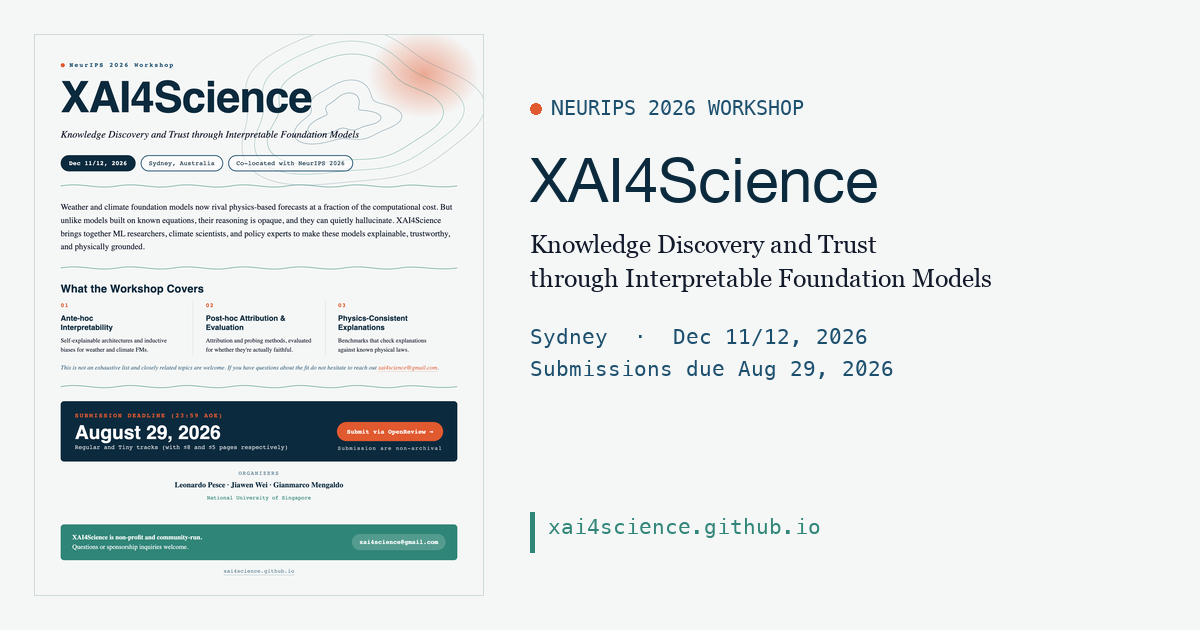
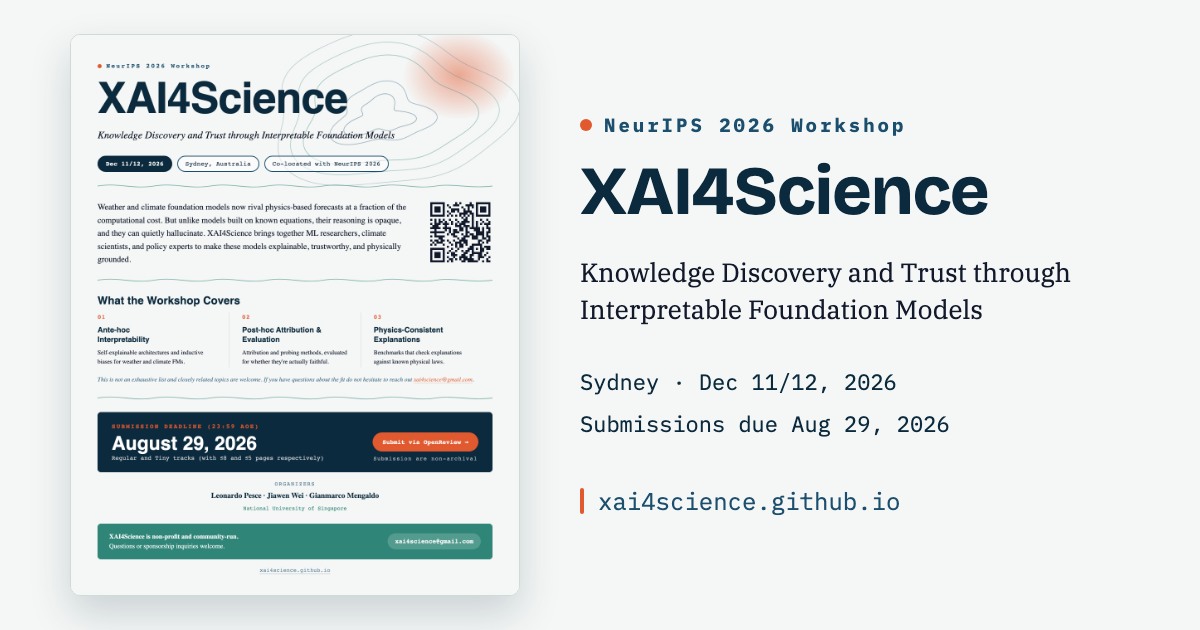
qr code on flyer

diff --git a/flyer.html b/flyer.html
@@ -148,7 +148,7 @@ h1.title{
   font-weight:700;
 }
 
-.divider{ width:100%; height:22px; display:block; margin: 24px 0; opacity:0.6; }
+.divider{ width:100%; height:20px; display:block; margin: 24px 0; opacity:0.6; flex-shrink:0; }
 
 .section-title{
   font-family:'Bricolage', sans-serif;
@@ -159,11 +159,22 @@ h1.title{
   margin-bottom:14px;
 }
 
+.about-block{
+  display:flex;
+  align-items:center;
+  justify-content:space-between;
+  gap:16px;
+}
 .about-block p{
   font-size:20px;
   line-height:1.58;
   color: var(--ink);
-  max-width:940px;
+  max-width:760px;
+}
+.about-block .qr{
+  flex:none;
+  width:155px;
+  height:155px;
 }
 
 .threads{
@@ -537,6 +548,12 @@ h1.title{
 
     <div class="about-block">
       <p>Weather and climate foundation models now rival physics-based forecasts at a fraction of the computational cost. But unlike models built on known equations, their reasoning is opaque, and they can quietly hallucinate. XAI4Science brings together ML researchers, climate scientists, and policy experts to make these models explainable, trustworthy, and physically grounded.</p>
+      <a href="https://xai4science.github.io" target="_blank" rel="noopener" aria-label="xai4science.github.io">
+      <svg class="qr" viewBox="0 0 31 31" xmlns="http://www.w3.org/2000/svg" role="img" aria-label="QR code linking to xai4science.github.io">
+        <rect width="31" height="31" fill="#F5F7F6"/>
+        <path d="M1,1H2V2H1zM2,1H3V2H2zM3,1H4V2H3zM4,1H5V2H4zM5,1H6V2H5zM6,1H7V2H6zM7,1H8V2H7zM13,1H14V2H13zM15,1H16V2H15zM20,1H21V2H20zM23,1H24V2H23zM24,1H25V2H24zM25,1H26V2H25zM26,1H27V2H26zM27,1H28V2H27zM28,1H29V2H28zM29,1H30V2H29zM1,2H2V3H1zM7,2H8V3H7zM9,2H10V3H9zM12,2H13V3H12zM13,2H14V3H13zM14,2H15V3H14zM18,2H19V3H18zM19,2H20V3H19zM20,2H21V3H20zM21,2H22V3H21zM23,2H24V3H23zM29,2H30V3H29zM1,3H2V4H1zM3,3H4V4H3zM4,3H5V4H4zM5,3H6V4H5zM7,3H8V4H7zM10,3H11V4H10zM16,3H17V4H16zM19,3H20V4H19zM21,3H22V4H21zM23,3H24V4H23zM25,3H26V4H25zM26,3H27V4H26zM27,3H28V4H27zM29,3H30V4H29zM1,4H2V5H1zM3,4H4V5H3zM4,4H5V5H4zM5,4H6V5H5zM7,4H8V5H7zM11,4H12V5H11zM12,4H13V5H12zM13,4H14V5H13zM14,4H15V5H14zM17,4H18V5H17zM19,4H20V5H19zM23,4H24V5H23zM25,4H26V5H25zM26,4H27V5H26zM27,4H28V5H27zM29,4H30V5H29zM1,5H2V6H1zM3,5H4V6H3zM4,5H5V6H4zM5,5H6V6H5zM7,5H8V6H7zM9,5H10V6H9zM11,5H12V6H11zM12,5H13V6H12zM14,5H15V6H14zM17,5H18V6H17zM18,5H19V6H18zM19,5H20V6H19zM20,5H21V6H20zM23,5H24V6H23zM25,5H26V6H25zM26,5H27V6H26zM27,5H28V6H27zM29,5H30V6H29zM1,6H2V7H1zM7,6H8V7H7zM10,6H11V7H10zM15,6H16V7H15zM16,6H17V7H16zM17,6H18V7H17zM18,6H19V7H18zM20,6H21V7H20zM21,6H22V7H21zM23,6H24V7H23zM29,6H30V7H29zM1,7H2V8H1zM2,7H3V8H2zM3,7H4V8H3zM4,7H5V8H4zM5,7H6V8H5zM6,7H7V8H6zM7,7H8V8H7zM9,7H10V8H9zM11,7H12V8H11zM13,7H14V8H13zM15,7H16V8H15zM17,7H18V8H17zM19,7H20V8H19zM21,7H22V8H21zM23,7H24V8H23zM24,7H25V8H24zM25,7H26V8H25zM26,7H27V8H26zM27,7H28V8H27zM28,7H29V8H28zM29,7H30V8H29zM16,8H17V9H16zM18,8H19V9H18zM21,8H22V9H21zM1,9H2V10H1zM3,9H4V10H3zM5,9H6V10H5zM7,9H8V10H7zM10,9H11V10H10zM13,9H14V10H13zM17,9H18V10H17zM18,9H19V10H18zM21,9H22V10H21zM25,9H26V10H25zM28,9H29V10H28zM3,10H4V11H3zM5,10H6V11H5zM6,10H7V11H6zM8,10H9V11H8zM11,10H12V11H11zM14,10H15V11H14zM16,10H17V11H16zM17,10H18V11H17zM18,10H19V11H18zM19,10H20V11H19zM21,10H22V11H21zM23,10H24V11H23zM26,10H27V11H26zM29,10H30V11H29zM1,11H2V12H1zM3,11H4V12H3zM4,11H5V12H4zM5,11H6V12H5zM7,11H8V12H7zM8,11H9V12H8zM9,11H10V12H9zM11,11H12V12H11zM13,11H14V12H13zM15,11H16V12H15zM16,11H17V12H16zM17,11H18V12H17zM21,11H22V12H21zM23,11H24V12H23zM25,11H26V12H25zM27,11H28V12H27zM28,11H29V12H28zM29,11H30V12H29zM2,12H3V13H2zM3,12H4V13H3zM4,12H5V13H4zM8,12H9V13H8zM13,12H14V13H13zM14,12H15V13H14zM15,12H16V13H15zM17,12H18V13H17zM18,12H19V13H18zM19,12H20V13H19zM21,12H22V13H21zM23,12H24V13H23zM28,12H29V13H28zM1,13H2V14H1zM2,13H3V14H2zM3,13H4V14H3zM4,13H5V14H4zM5,13H6V14H5zM7,13H8V14H7zM8,13H9V14H8zM9,13H10V14H9zM10,13H11V14H10zM15,13H16V14H15zM16,13H17V14H16zM18,13H19V14H18zM20,13H21V14H20zM21,13H22V14H21zM22,13H23V14H22zM23,13H24V14H23zM24,13H25V14H24zM26,13H27V14H26zM28,13H29V14H28zM29,13H30V14H29zM3,14H4V15H3zM8,14H9V15H8zM10,14H11V15H10zM12,14H13V15H12zM13,14H14V15H13zM15,14H16V15H15zM16,14H17V15H16zM18,14H19V15H18zM22,14H23V15H22zM23,14H24V15H23zM24,14H25V15H24zM26,14H27V15H26zM29,14H30V15H29zM1,15H2V16H1zM2,15H3V16H2zM3,15H4V16H3zM4,15H5V16H4zM5,15H6V16H5zM6,15H7V16H6zM7,15H8V16H7zM10,15H11V16H10zM12,15H13V16H12zM13,15H14V16H13zM14,15H15V16H14zM18,15H19V16H18zM19,15H20V16H19zM23,15H24V16H23zM24,15H25V16H24zM25,15H26V16H25zM26,15H27V16H26zM28,15H29V16H28zM29,15H30V16H29zM3,16H4V17H3zM9,16H10V17H9zM11,16H12V17H11zM12,16H13V17H12zM16,16H17V17H16zM18,16H19V17H18zM20,16H21V17H20zM21,16H22V17H21zM23,16H24V17H23zM24,16H25V17H24zM25,16H26V17H25zM26,16H27V17H26zM28,16H29V17H28zM1,17H2V18H1zM3,17H4V18H3zM4,17H5V18H4zM5,17H6V18H5zM6,17H7V18H6zM7,17H8V18H7zM12,17H13V18H12zM13,17H14V18H13zM17,17H18V18H17zM18,17H19V18H18zM19,17H20V18H19zM21,17H22V18H21zM22,17H23V18H22zM23,17H24V18H23zM26,17H27V18H26zM28,17H29V18H28zM29,17H30V18H29zM5,18H6V19H5zM6,18H7V19H6zM14,18H15V19H14zM16,18H17V19H16zM17,18H18V19H17zM21,18H22V19H21zM22,18H23V19H22zM23,18H24V19H23zM26,18H27V19H26zM27,18H28V19H27zM29,18H30V19H29zM1,19H2V20H1zM3,19H4V20H3zM4,19H5V20H4zM6,19H7V20H6zM7,19H8V20H7zM9,19H10V20H9zM12,19H13V20H12zM15,19H16V20H15zM16,19H17V20H16zM17,19H18V20H17zM18,19H19V20H18zM24,19H25V20H24zM25,19H26V20H25zM28,19H29V20H28zM29,19H30V20H29zM2,20H3V21H2zM4,20H5V21H4zM5,20H6V21H5zM6,20H7V21H6zM10,20H11V21H10zM13,20H14V21H13zM14,20H15V21H14zM15,20H16V21H15zM17,20H18V21H17zM18,20H19V21H18zM24,20H25V21H24zM26,20H27V21H26zM28,20H29V21H28zM1,21H2V22H1zM3,21H4V22H3zM7,21H8V22H7zM11,21H12V22H11zM13,21H14V22H13zM15,21H16V22H15zM16,21H17V22H16zM18,21H19V22H18zM21,21H22V22H21zM22,21H23V22H22zM23,21H24V22H23zM24,21H25V22H24zM25,21H26V22H25zM9,22H10V23H9zM13,22H14V23H13zM15,22H16V23H15zM16,22H17V23H16zM20,22H21V23H20zM21,22H22V23H21zM25,22H26V23H25zM27,22H28V23H27zM28,22H29V23H28zM29,22H30V23H29zM1,23H2V24H1zM2,23H3V24H2zM3,23H4V24H3zM4,23H5V24H4zM5,23H6V24H5zM6,23H7V24H6zM7,23H8V24H7zM11,23H12V24H11zM14,23H15V24H14zM19,23H20V24H19zM20,23H21V24H20zM21,23H22V24H21zM23,23H24V24H23zM25,23H26V24H25zM26,23H27V24H26zM28,23H29V24H28zM29,23H30V24H29zM1,24H2V25H1zM7,24H8V25H7zM10,24H11V25H10zM13,24H14V25H13zM16,24H17V25H16zM18,24H19V25H18zM19,24H20V25H19zM21,24H22V25H21zM25,24H26V25H25zM26,24H27V25H26zM1,25H2V26H1zM3,25H4V26H3zM4,25H5V26H4zM5,25H6V26H5zM7,25H8V26H7zM9,25H10V26H9zM11,25H12V26H11zM12,25H13V26H12zM17,25H18V26H17zM18,25H19V26H18zM21,25H22V26H21zM22,25H23V26H22zM23,25H24V26H23zM24,25H25V26H24zM25,25H26V26H25zM28,25H29V26H28zM1,26H2V27H1zM3,26H4V27H3zM4,26H5V27H4zM5,26H6V27H5zM7,26H8V27H7zM11,26H12V27H11zM12,26H13V27H12zM13,26H14V27H13zM16,26H17V27H16zM17,26H18V27H17zM20,26H21V27H20zM21,26H22V27H21zM24,26H25V27H24zM25,26H26V27H25zM27,26H28V27H27zM1,27H2V28H1zM3,27H4V28H3zM4,27H5V28H4zM5,27H6V28H5zM7,27H8V28H7zM9,27H10V28H9zM12,27H13V28H12zM15,27H16V28H15zM16,27H17V28H16zM17,27H18V28H17zM18,27H19V28H18zM20,27H21V28H20zM24,27H25V28H24zM25,27H26V28H25zM26,27H27V28H26zM29,27H30V28H29zM1,28H2V29H1zM7,28H8V29H7zM10,28H11V29H10zM11,28H12V29H11zM13,28H14V29H13zM15,28H16V29H15zM17,28H18V29H17zM18,28H19V29H18zM19,28H20V29H19zM20,28H21V29H20zM21,28H22V29H21zM24,28H25V29H24zM28,28H29V29H28zM1,29H2V30H1zM2,29H3V30H2zM3,29H4V30H3zM4,29H5V30H4zM5,29H6V30H5zM6,29H7V30H6zM7,29H8V30H7zM9,29H10V30H9zM11,29H12V30H11zM16,29H17V30H16zM17,29H18V30H17zM19,29H20V30H19zM20,29H21V30H20zM21,29H22V30H21zM22,29H23V30H22zM23,29H24V30H23zM26,29H27V30H26zM28,29H29V30H28zM29,29H30V30H29z" fill="#12192B"/>
+      </svg>
+      </a>
     </div>
 
     <svg class="divider" viewBox="0 0 700 24" preserveAspectRatio="none">
